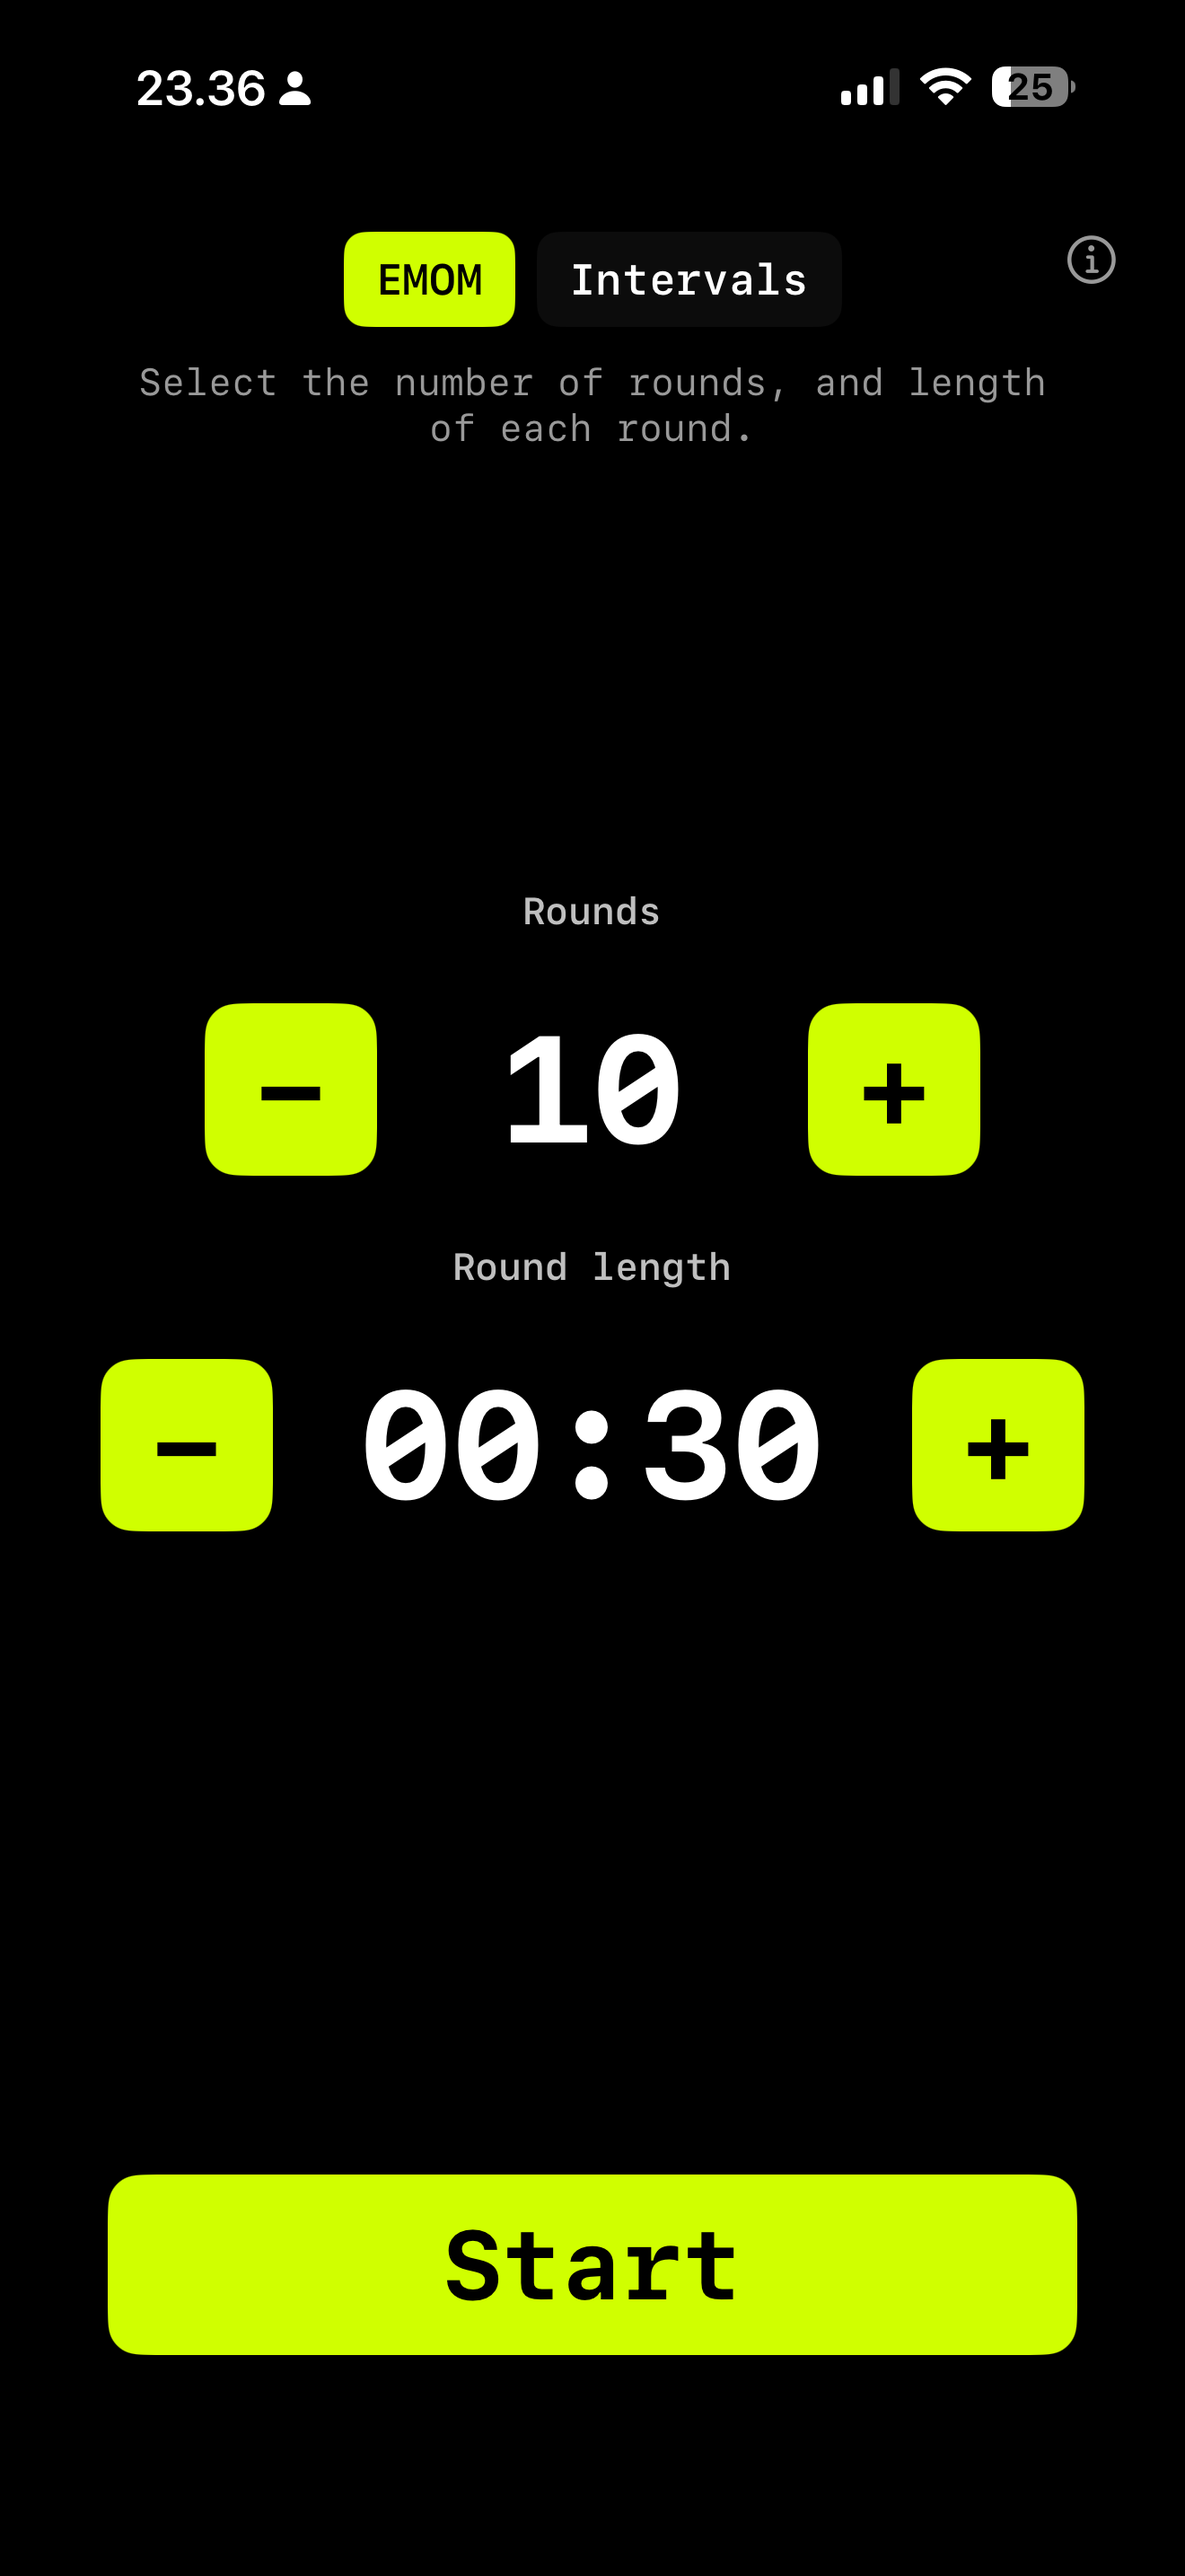
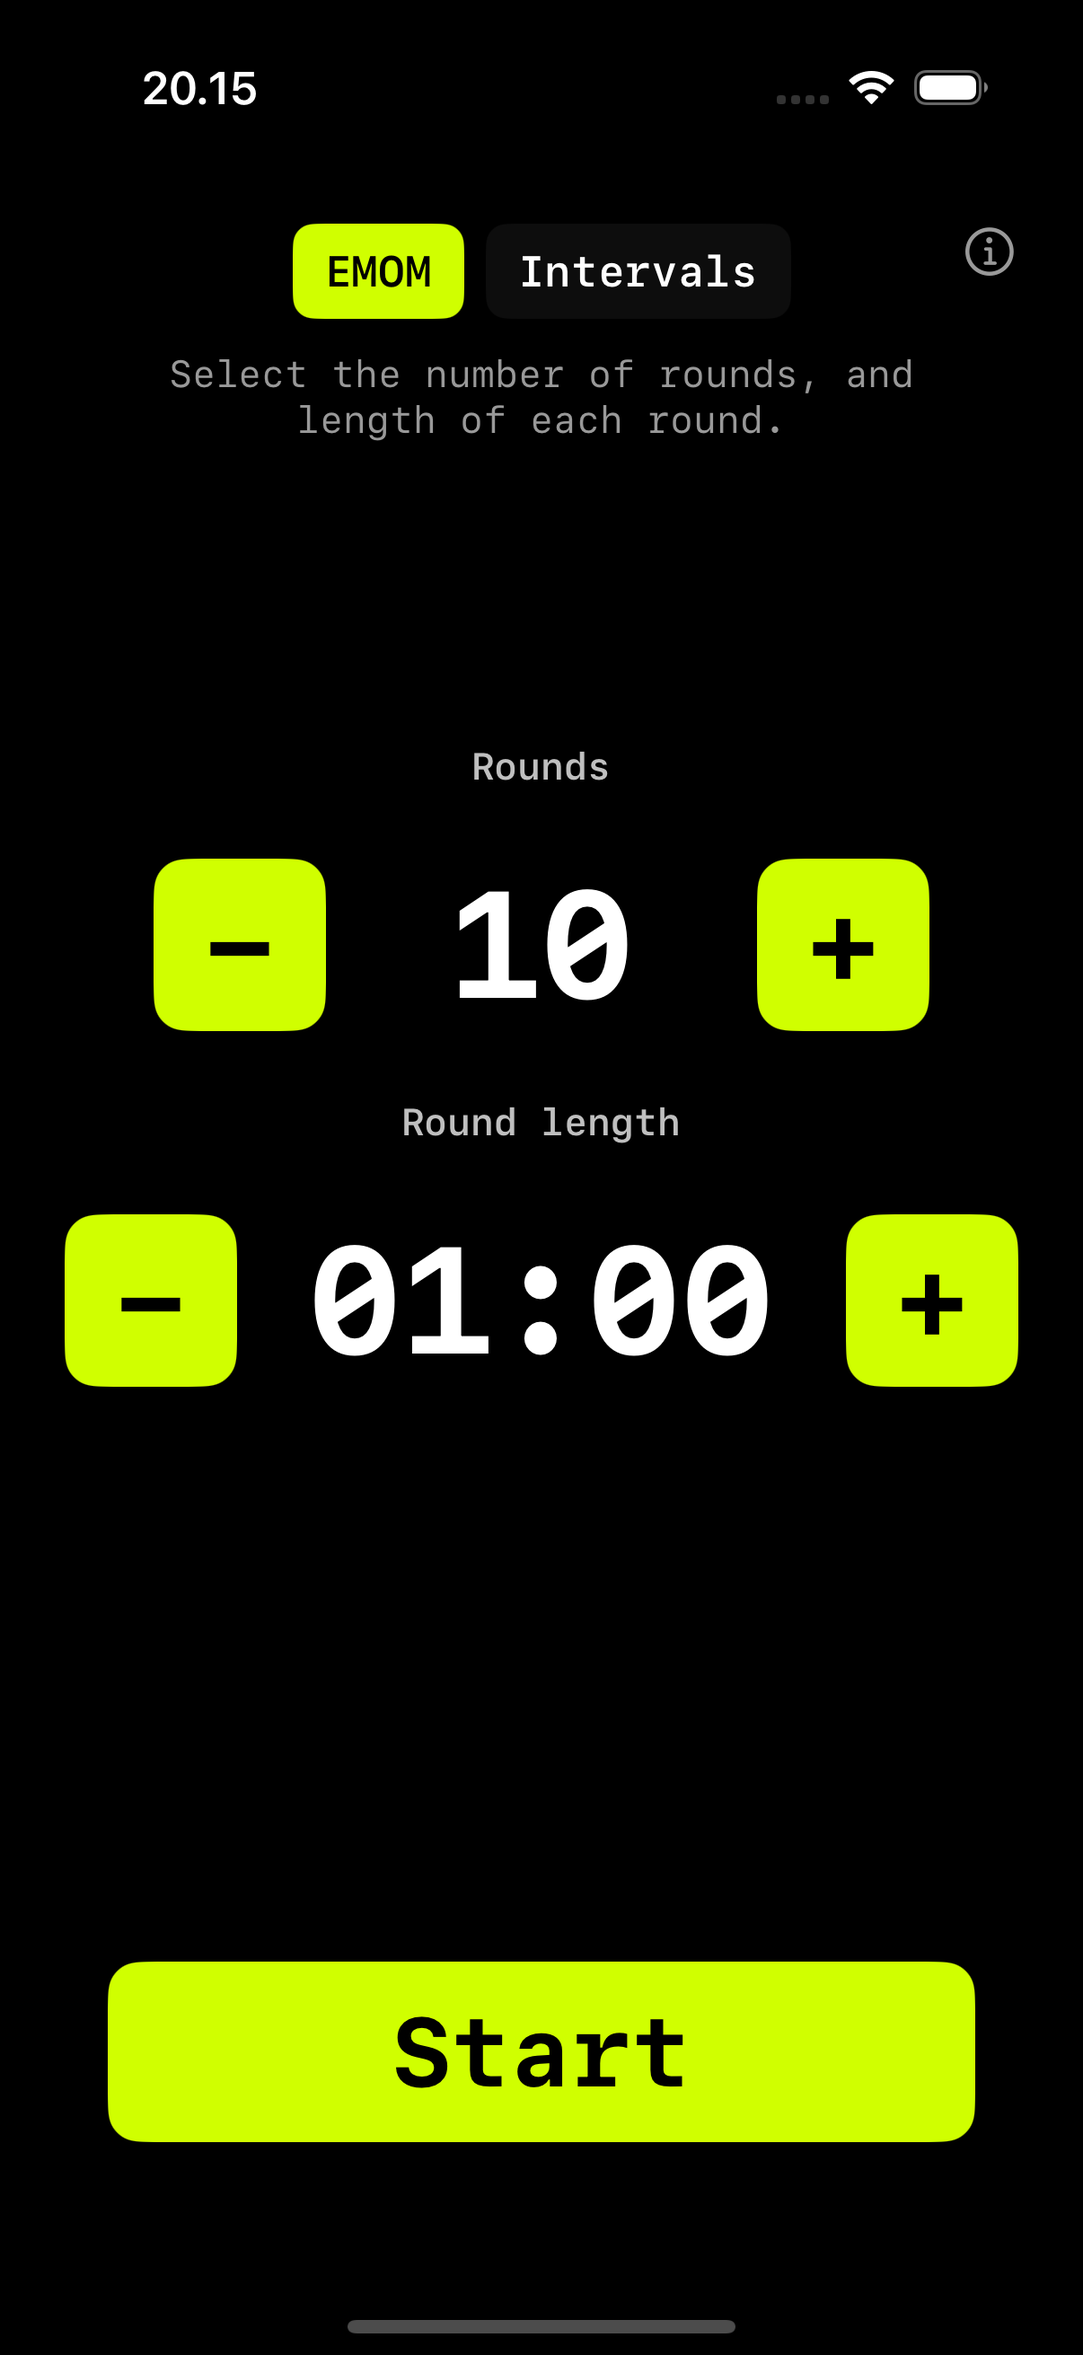
docs: update marketing screenshots for v1.2
Replaced three key marketing images with fresh V1.2 screenshots:
- iphone16-emom.png: dark mode EMOM setup (matches existing aspect 0.46)
- iphone16-intervals.png: dark mode Intervals setup (same aspect)
- mac-overview.png: light mode EMOM setup (new aspect 1.185, updated
  HTML dimensions from 800x500 to 800x675 and alt text to match)

All images show the new design tokens 0.2.0 colors (deeper purple primary
in light mode, lime green in dark mode).

iPad screenshot not updated: Jarl's V1.2 iPad shots are landscape
orientation but index.html uses portrait (750x1000) in the platform card
grid. A portrait iPad capture would be needed to replace ipad.png.

No Watch or tvOS V1.2 screenshots available yet — keeping existing assets.

diff --git a/docs/index.html b/docs/index.html
@@ -227,7 +227,7 @@
 
         <div class="platform-showcase">
           <figure class="platform-card platform-card--wide reveal">
-            <img src="images/mac-overview.png" alt="WODrounds on Mac showing dark mode and light mode side by side with EMOM and Intervals" width="800" height="500" loading="lazy">
+            <img src="images/mac-overview.png" alt="WODrounds on Mac showing the EMOM setup screen in a compact window" width="800" height="675" loading="lazy">
             <figcaption>
               <h3>Mac</h3>
               <p>Compact window that stays out of the way. Dark and light mode. Perfect for timing from your desk.</p>
